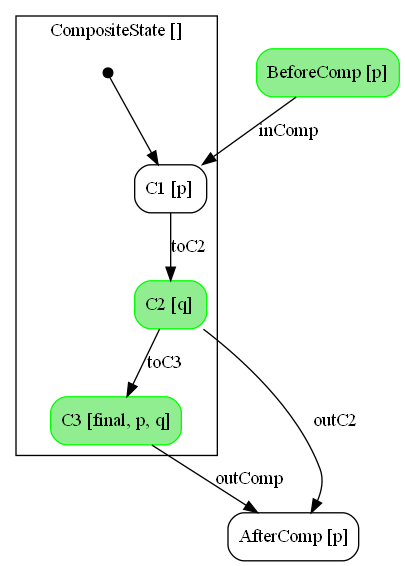
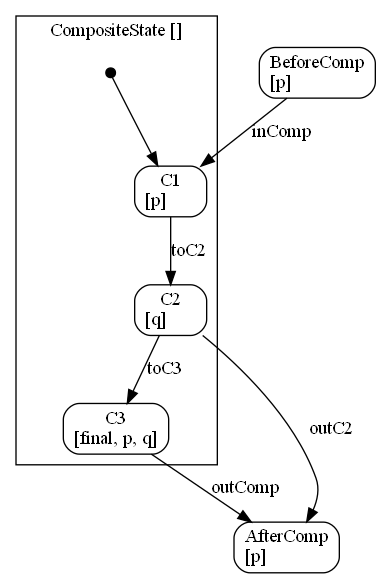
fix: display tags in new line

Changed region(s): [[0.0289, 0.0, 0.9239, 1.0], [0.6063, 0.0601, 1.0, 0.2403]]

diff --git a/src/modifiedTransitions.py b/src/modifiedTransitions.py
@@ -44,6 +44,16 @@ class HierarchicalKTS(HierarchicalGraphMachine):
     
     def generate_image(self, model):
         self.model_graphs[id(model)].get_graph().draw('src/kts.png', prog='dot')
+    
+
+    def update_labels(self, states):
+        for state in self.non_composite_states(states):
+            current_label = self.get_graph().get_node(state['name']).attr['label']
+            short_name = state['name']
+            if '_' in short_name:
+                short_name = state['name'].split('_')[1]
+            tags = current_label[len(short_name)+1 :]
+            self.get_graph().get_node(state['name']).attr['label'] = short_name + "\n" + tags
 
     
     def get_all_states(self):
@@ -160,6 +170,13 @@ class GraphKTS(GraphMachine):
     
     def generate_image(self, model):
         self.model_graphs[id(model)].get_graph().draw('src/kts.png', prog='dot')
+    
+
+    def update_labels(self, states):
+        for state in self.get_all_states().items():
+            current_label = self.get_graph().get_node(state[0]).attr['label']
+            tags = current_label[len(state[0])+1 :]
+            self.get_graph().get_node(state[0]).attr['label'] = state[0] + "\n" + tags
 
 
     def get_all_states(self):

diff --git a/src/main.py b/src/main.py
@@ -416,6 +416,8 @@ class mcGUI(object):
         else:
             self.machine = MT.GraphKTS(model=self.kts, title="", initial=list(self.states[0].values())[0], states=self.states,
                                 transitions=self.transitions, show_state_attributes=True)
+            
+        self.machine.update_labels(self.states)
         self.machine.generate_image(self.kts)
         self.update_image()
 
@@ -832,6 +834,8 @@ class mcGUI(object):
         else:
             self.machine = MT.GraphKTS(model=self.kts, title="", initial=list(self.states[0].values())[0], states=self.states,
                                 transitions=self.transitions, show_state_attributes=True)
+        
+        self.machine.update_labels(self.states)
         self.machine.generate_image(self.kts)
         self.set_new_image()
         self.update_ap_frame()
